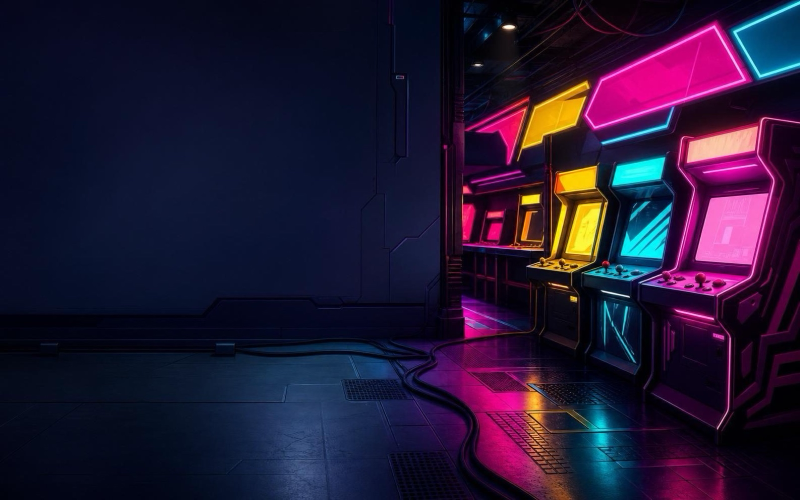
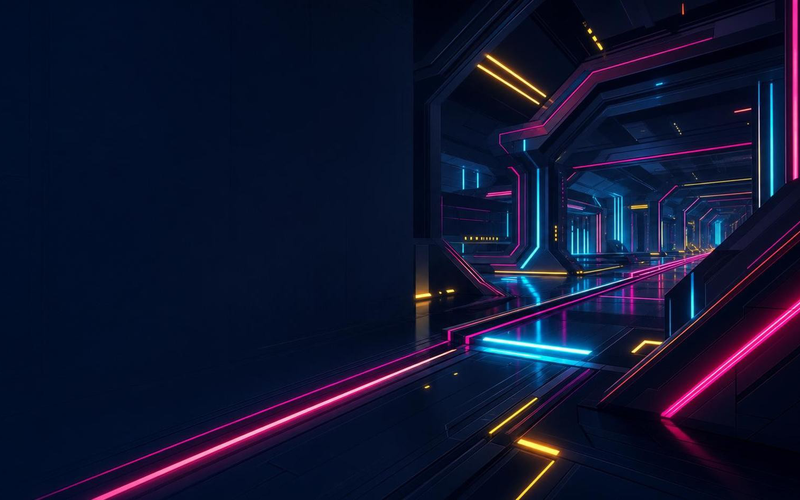
feat: add four polished theme prototype assets

diff --git a/Tests/CodexHabitatAppTests/BundledThemeModelTests.swift b/Tests/CodexHabitatAppTests/BundledThemeModelTests.swift
@@ -8,6 +8,7 @@ import Testing
 @Test
 func bundledThemeDescriptorsExposeValidatedTokensAndPreviews() throws {
     let themes = HabitatThemeDescriptor.builtIn
+    let prototypeIDs = Set(["workbench", "retro-messenger", "arcade-signal", "quiet-garden"])
 
     #expect(themes.count == 24)
     #expect(themes.map(\.id) == BuiltInThemeCatalog.all.map(\.id))
@@ -24,11 +25,21 @@ func bundledThemeDescriptorsExposeValidatedTokensAndPreviews() throws {
         let backgroundURL = try #require(theme.backgroundURL)
         #expect(try imageDimensions(previewURL) == CGSize(width: 800, height: 500))
         let backgroundSize = try imageDimensions(backgroundURL)
-        #expect(backgroundSize.width >= 1_600)
-        #expect(backgroundSize.height >= 1_000)
-        #expect(backgroundHashes.insert(try sha256(backgroundURL)).inserted)
+        if prototypeIDs.contains(theme.id) {
+            #expect(backgroundSize == CGSize(width: 2_560, height: 1_440))
+        } else {
+            #expect(backgroundSize.width >= 1_600)
+            #expect(backgroundSize.height >= 1_000)
+        }
+        #expect(try decodedImage(backgroundURL) != nil)
+        #expect(try decodedImage(previewURL) != nil)
+        #expect(try Data(contentsOf: backgroundURL).count <= 1_048_576)
+        #expect(try Data(contentsOf: previewURL).count <= 1_048_576)
+        let backgroundHash = try sha256(backgroundURL)
+        #expect(backgroundHashes.insert(backgroundHash).inserted)
         #expect(previewHashes.insert(try sha256(previewURL)).inserted)
         #expect(theme.appearance.background == "background.jpg")
+        #expect(try manifestBackgroundHash(themeID: theme.id) == backgroundHash)
     }
 }
 
@@ -68,4 +79,25 @@ private func imageDimensions(_ url: URL) throws -> CGSize {
 
 private func sha256(_ url: URL) throws -> String {
     SHA256.hash(data: try Data(contentsOf: url)).map { String(format: "%02x", $0) }.joined()
+}
+
+private func decodedImage(_ url: URL) throws -> CGImage? {
+    let source = try #require(CGImageSourceCreateWithURL(url as CFURL, nil))
+    return CGImageSourceCreateImageAtIndex(source, 0, nil)
+}
+
+private func manifestBackgroundHash(themeID: String) throws -> String {
+    let directory = "Resources/Themes/\(themeID)"
+    let url = try #require(PackagedResourceLocator.url(
+        forResource: "habitat",
+        withExtension: "json",
+        subdirectory: directory,
+        packageBundleName: "CodexHabitat_CodexHabitatApp.bundle"
+    ))
+    let object = try #require(
+        JSONSerialization.jsonObject(with: Data(contentsOf: url)) as? [String: Any]
+    )
+    let assets = try #require(object["assets"] as? [[String: Any]])
+    let background = try #require(assets.first { $0["path"] as? String == "background.jpg" })
+    return try #require(background["sha256"] as? String).lowercased()
 }

diff --git a/Tests/ResourceKitTests/BundledResourcesTests.swift b/Tests/ResourceKitTests/BundledResourcesTests.swift
@@ -13,6 +13,7 @@ func bundledThemesUseThePublicValidatorAndLocalAccessibleAssets() throws {
     var discoveredIDs: [String] = []
     var backgroundHashes: Set<String> = []
     var previewHashes: Set<String> = []
+    let prototypeIDs = Set(["workbench", "retro-messenger", "arcade-signal", "quiet-garden"])
 
     for id in expectedIDs {
         let directory = themesRoot.appending(path: id, directoryHint: .isDirectory)
@@ -41,7 +42,10 @@ func bundledThemesUseThePublicValidatorAndLocalAccessibleAssets() throws {
             return image
         }.first)
         #expect(try imageDimensions(previewURL) == CGSize(width: 800, height: 500))
-        #expect(try imageDimensions(backgroundURL) == CGSize(width: 1_600, height: 1_000))
+        let expectedBackgroundSize = prototypeIDs.contains(id)
+            ? CGSize(width: 2_560, height: 1_440)
+            : CGSize(width: 1_600, height: 1_000)
+        #expect(try imageDimensions(backgroundURL) == expectedBackgroundSize)
         #expect(try Data(contentsOf: backgroundURL).count <= 1_048_576)
         #expect(try sha256(backgroundURL) == backgroundAsset.sha256.lowercased())
         #expect(backgroundHashes.insert(try sha256(backgroundURL)).inserted)

diff --git a/docs/qa/theme-asset-provenance.md b/docs/qa/theme-asset-provenance.md
@@ -2,22 +2,33 @@
 
 Generated: 2026-07-17
 
+Prototype refresh: 2026-07-18
+
 All twenty-four built-in backgrounds were generated with the project-approved `imagegen` CLI fallback using `gpt-image-2` through the user-configured image endpoint `https://api.wpironman.top/v1`. Each job requested `1600 x 1008`, medium quality, JPEG output, and a separate rights-safe prompt. The endpoint returned `1586 x 992`; project assets were normalized with macOS `sips` to `1600 x 1000` JPEG and `800 x 500` PNG preview files.
 
 The user-provided messenger screenshot was inspected locally for era, hierarchy, and spacing only. It was not supplied to the image model, edited, copied, or bundled. No third-party artwork or downloaded image is present in these theme directories.
 
+On 2026-07-18, `workbench`, `retro-messenger`, `arcade-signal`, and
+`quiet-garden` were regenerated as the approved polished prototypes. These four
+jobs used the same user-configured OpenAI-compatible endpoint class with
+`gpt-image-2`, high quality, and a requested `2560 x 1440` JPEG output. The
+endpoint returned `1672 x 941`; Pillow `ImageOps.fit` performed an aspect-fill
+normalization to `2560 x 1440` without stretching, then derived an `800 x 500`
+preview. No Dream Skin image, QQ screenshot, or other image input was sent to
+the model.
+
 Manual review checked every contact-sheet image plus original-resolution high-risk nostalgia, anime-energy, classic-desktop, and block-world outputs. Review criteria: no text, logos, people, faces, characters, creatures, mascots, trademarked symbols, proprietary interface icons, screenshots, copied compositions, or recognizable franchise designs; calm leading safe side; distinct trailing focal region. `block-frontier` draft 1 was rejected because its grass blocks, square clouds, and wooden outpost were too close to familiar cubic-sandbox conventions. Only the independently generated polygonal v2 is packaged.
 
-## Workbench Turbo (`workbench`)
+## Workbench Turbo (`workbench`) — refreshed prototype
 
-- Source: `gpt-image-2`, CLI fallback, medium quality, requested `1600 x 1008`, raw output `output/imagegen/habitat-themes/workbench-source.jpeg` (temporary, not packaged).
[5 lines of base64/hex data omitted]
 - Manual rights and content review: Pass. Original environment composition; no text or identifiable protected content; leading safe side and trailing focal region verified.
 - Final prompt:
 
 ```text
-Use case: stylized-concept. Asset type: desktop theme background. Scene/backdrop: an original high-saturation industrial workshop control bay with warm metal panels, teal utility lights, compact machinery, cables, and a wide rear wall. Subject: layered tools and glowing work surfaces on the right side only. Style/medium: polished game environment concept art, tactile painted materials. Composition/framing: 16:10 landscape, calm low-detail negative space on the left 40 percent for native app controls, strong focal depth on the right. Lighting/mood: electric orange and teal work light, crisp readable contrast. Constraints: no text, letters, numbers, logos, trademarks, people, faces, characters, creatures, mascots, flags, copied interface, screenshot, watermark, or recognizable franchise design. Avoid: empty gradient-only background, bokeh blobs, protected symbols, and visual noise in the safe side.
+Use case: stylized-concept. Asset type: full-window desktop theme background. Primary request: an original cathedral-scale industrial foundry interior built from charcoal iron beams, aged brass rails, dark stone floor plates, and restrained amber furnace light; environment only. Composition/framing: 16:9 landscape, preserve the left 42 percent as calm low-detail iron shadow for readable native controls, place the strongest architectural depth, brass machinery, and warm light on the right; continuous environment that remains useful under wide cover crops. Style/medium: polished cinematic environment concept art with tactile metal and stone, sophisticated rather than illustrative. Lighting/mood: controlled warm work light against deep charcoal, high contrast without crushed detail. Constraints: pure background artwork, no text, letters, numbers, logos, trademarks, people, faces, bodies, characters, creatures, mascots, screens, interface panels, copied UI, watermark, weapons, heraldry, religious symbols, recognizable franchise motifs, or copied composition. Avoid: orange-dominated palette, bokeh blobs, floating decorative orbs, excessive smoke, clutter in the left safe area.
 ```
 
 ## Neon Night Shift (`night-shift`)
@@ -32,40 +43,40 @@ Use case: stylized-concept. Asset type: desktop theme background. Scene/backdrop
 Use case: stylized-concept. Asset type: desktop theme background. Scene/backdrop: an original midnight operations room with deep indigo walls, violet instrument housings, cyan edge lights, and a glass observation window. Subject: luminous control machinery concentrated on the right side. Style/medium: cinematic game environment painting with rich material detail. Composition/framing: 16:10 landscape, quiet dark negative space on the left 40 percent for native app headings, saturated focal region on the right. Lighting/mood: nocturnal violet and cyan, calm but energetic. Constraints: no text, letters, numbers, logos, trademarks, people, faces, characters, creatures, mascots, flags, copied interface, screenshot, watermark, or recognizable franchise design. Avoid: empty gradient-only background, bokeh blobs, protected symbols, and visual noise in the safe side.
 ```
 
-## Arcade Overdrive (`arcade-signal`)
+## Arcade Overdrive (`arcade-signal`) — refreshed prototype
 
-- Source: `gpt-image-2`, CLI fallback, medium quality, requested `1600 x 1008`, raw output `output/imagegen/habitat-themes/arcade-signal-source.jpeg` (temporary, not packaged).
[5 lines of base64/hex data omitted]
 - Manual rights and content review: Pass. Original environment composition; no text or identifiable protected content; leading safe side and trailing focal region verified.
 - Final prompt:
 
 ```text
-Use case: stylized-concept. Asset type: desktop theme background. Scene/backdrop: an original after-hours arcade hall with abstract cabinet silhouettes, patterned floor panels, chunky cables, and colored marquee shapes with no writing. Subject: saturated magenta, cyan, and yellow light clusters on the right. Style/medium: polished retro-futurist game environment art. Composition/framing: 16:10 landscape, calm darker floor and wall space on the left 40 percent for controls, visual energy on the right. Lighting/mood: high-saturation cabinet glow with crisp edges. Constraints: no text, letters, numbers, logos, trademarks, people, faces, characters, creatures, mascots, flags, copied interface, screenshot, watermark, or recognizable franchise design. Avoid: empty gradient-only background, bokeh blobs, protected symbols, and visual noise in the safe side.
+Use case: stylized-concept. Asset type: full-window desktop theme background. Primary request: an original after-hours arcade-inspired environment made from abstract geometric light machines, navy structural bays, crisp magenta and cyan signal rails, and restrained yellow attention lights; no recognizable cabinets and environment only. Composition/framing: 16:9 landscape, preserve the left 42 percent as calm low-detail navy space for readable native controls, place luminous machine geometry and energetic perspective on the right, keep the scene continuous under wide cover crops. Style/medium: premium graphic game-environment concept art with sharp edges, tactile dark materials, and disciplined saturation. Lighting/mood: electric magenta-cyan contrast with precise yellow cues, deep navy shadows, energetic but organized. Constraints: no text, letters, numbers, scores, marquees, logos, trademarks, people, faces, bodies, characters, creatures, mascots, recognizable arcade cabinets, screens, game UI, copied interface, watermark, protected symbols, recognizable franchise motifs, or copied composition. Avoid: bokeh blobs, neon signs, cyberpunk city clichés, purple-only palette, visual noise in the left safe area.
 ```
 
-## Pixel Meadow (`quiet-garden`)
+## Quiet Garden (`quiet-garden`) — refreshed prototype
 
-- Source: `gpt-image-2`, CLI fallback, medium quality, requested `1600 x 1008`, raw output `output/imagegen/habitat-themes/quiet-garden-source.jpeg` (temporary, not packaged).
[5 lines of base64/hex data omitted]
 - Manual rights and content review: Pass. Original environment composition; no text or identifiable protected content; leading safe side and trailing focal region verified.
 - Final prompt:
 
 ```text
-Use case: stylized-concept. Asset type: desktop theme background. Scene/backdrop: an original luminous pixel-inspired meadow with layered grasses, broad leaves, stepping stones, and a distant greenhouse-like shelter, rendered as crisp painted shapes rather than a screenshot. Subject: fresh green foliage and small aqua highlights on the right. Style/medium: cheerful stylized game environment illustration. Composition/framing: 16:10 landscape, quiet pale green negative space on the left 40 percent for native controls, detailed focal meadow on the right. Lighting/mood: bright morning light, saturated leaf greens, welcoming. Constraints: no text, letters, numbers, logos, trademarks, people, faces, characters, creatures, mascots, flags, copied interface, screenshot, watermark, or recognizable franchise design. Avoid: empty gradient-only background, bokeh blobs, protected symbols, and visual noise in the safe side.
+Use case: stylized-concept. Asset type: full-window desktop theme background. Primary request: an original morning conservatory with elegant greenhouse ribs, frosted glass partitions, living green foliage, pale stone paths, and soft white-green daylight; environment only. Composition/framing: 16:9 landscape, preserve the left 42 percent as calm airy pale glass and low-detail daylight for readable native controls, place the greenhouse structure, layered leaves, and sunlit focal depth on the right, keep the scene continuous under wide cover crops. Style/medium: refined natural environment painting with realistic materials and quiet editorial polish, not storybook illustration. Lighting/mood: fresh morning light, balanced greens, clean whites, subtle natural shadow, serene and focused. Constraints: no text, letters, numbers, signs, logos, trademarks, people, faces, bodies, characters, creatures, animals, mascots, branded objects, cottage-game replicas, screens, copied UI, watermark, recognizable franchise motifs, or copied composition. Avoid: beige-dominated palette, fantasy cottages, decorative bokeh orbs, excessive flowers, visual clutter in the left safe area.
 ```
 
-## Retro Messenger 2007 (`retro-messenger`)
+## Retro Messenger 2007 (`retro-messenger`) — refreshed prototype
 
-- Source: `gpt-image-2`, CLI fallback, medium quality, requested `1600 x 1008`, raw output `output/imagegen/habitat-themes/retro-messenger-source.jpeg` (temporary, not packaged).
[5 lines of base64/hex data omitted]
 - Manual rights and content review: Pass. Original environment composition; no text or identifiable protected content; leading safe side and trailing focal region verified.
 - Final prompt:
 
 ```text
-Use case: stylized-concept. Asset type: desktop theme background. Scene/backdrop: an original mid-2000s desktop communication workspace as an abstract environmental composition, with glossy sky-blue glass title bands, compact toolbar rhythm, beveled grouped side rails, a pale central message surface, and a thin bottom status strip; this must be atmosphere and architecture, not a readable interface screenshot. Subject: reflective blue chrome and soft white panel depth on the right. Style/medium: polished nostalgic desktop concept art. Composition/framing: 16:10 landscape, calm pale negative space on the left 40 percent for native app controls, glossy focal chrome on the right. Lighting/mood: clean daylight blue glass, restrained highlight. Constraints: no text, letters, numbers, logos, trademarks, people, faces, characters, creatures, mascots, flags, copied interface, screenshot, watermark, or recognizable franchise design. Avoid: any messenger branding, proprietary icons, profile portraits, chat bubbles with writing, or copied composition.
+Use case: stylized-concept. Asset type: full-window desktop theme background. Primary request: an original early-2000s blue-glass communication workspace expressed only through architecture and materials: layered cobalt translucent glass frames, pale aqua light wells, brushed silver rails, compact beveled structures, and a bright airy central depth; environment only. Composition/framing: 16:9 landscape, preserve the left 42 percent as calm low-detail deep-blue glass and soft pale light for readable native controls, cluster the most luminous glass architecture on the right, maintain a continuous scene under wide cover crops. Style/medium: polished retro-futurist environment rendering with restrained one-pixel-like highlights and authentic 2007-era material rhythm, not an interface mockup. Lighting/mood: clear cool daylight, cobalt and aqua glass with small silver highlights. Constraints: no text, letters, numbers, logos, trademarks, messenger brands, proprietary icons, contacts, portraits, people, faces, bodies, characters, creatures, mascots, computer screens, application windows, chat bubbles, copied UI, watermark, or copied composition. Avoid: recognizable messaging software layouts, logos, desktop screenshots, one-note blue wash, bokeh blobs, clutter in the left safe area.
 ```
 
 ## Green Chat Desktop (`green-chat-desk`)
